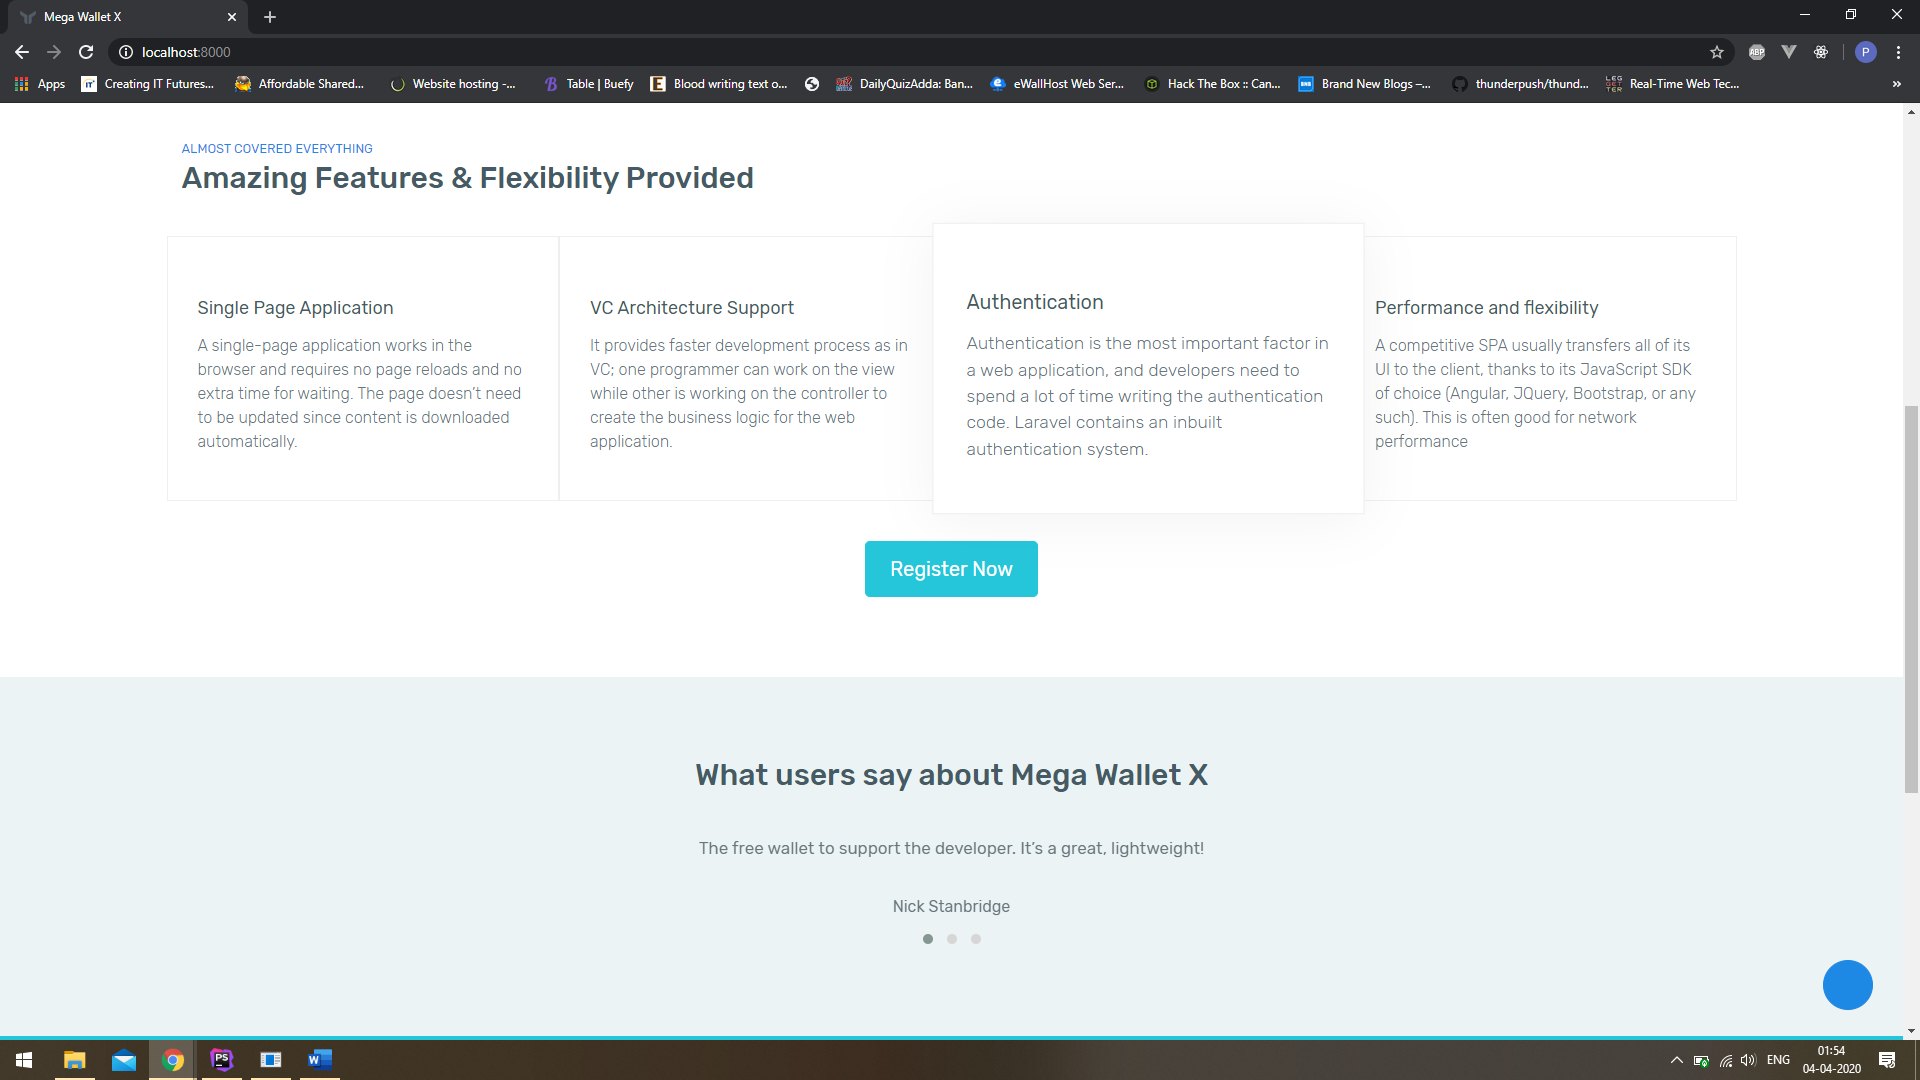
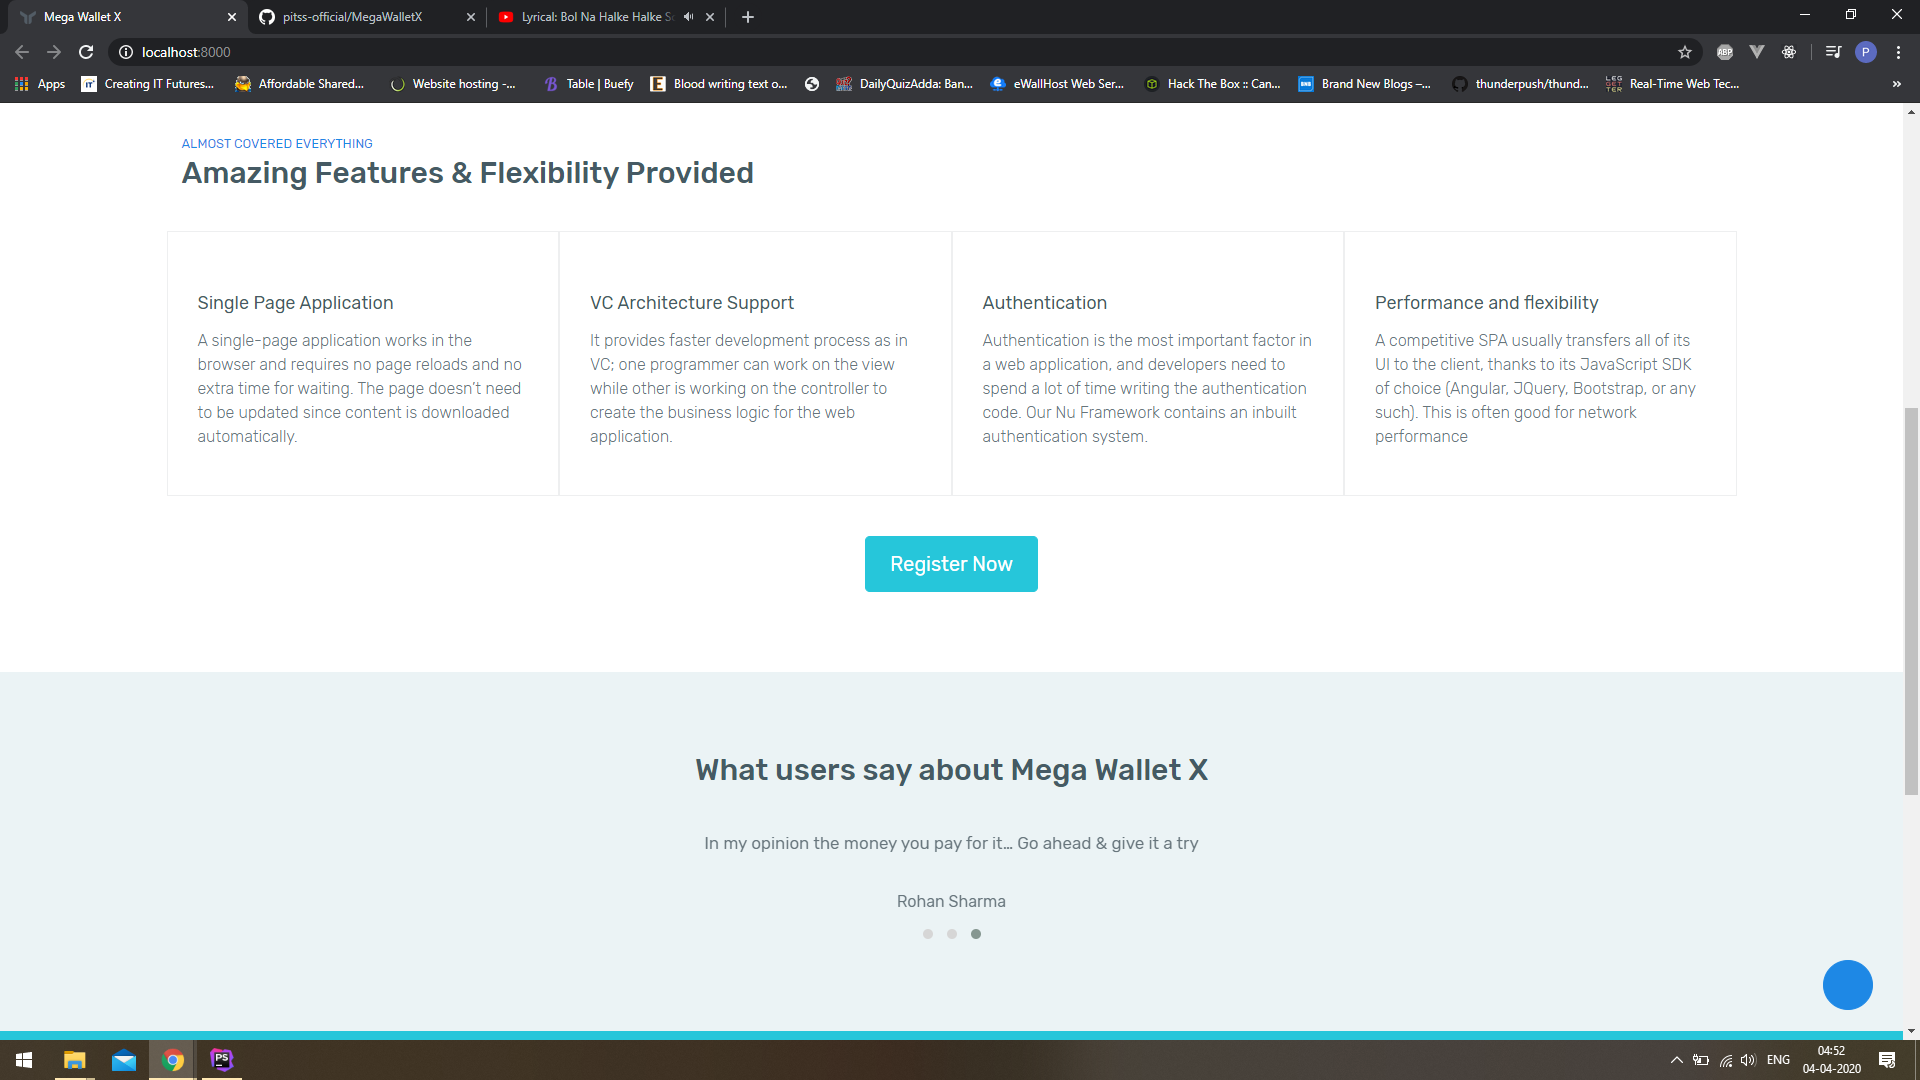
initial commit

diff --git a/application/views/home.view.php b/application/views/home.view.php
@@ -43,7 +43,7 @@ use Middleware\Auth; ?>
             <div class="fix-width">
                 <div class="row banner-text">
                     <div class="col-lg-5 m-t-20">
-                        <h1>The Most Beautiful &amp; Powerful <span class="text-info">Wallet Application</span> based on Laravel and Vue.js</h1>
+                        <h1>The Most Beautiful &amp; Powerful <span class="text-info">Wallet Application</span><br> based on Our PHP7 based <b>Nu Framework</b> and React.js</h1>
                         <p class="subtext"><span class="font-medium">Payments</span> has now become easier with <span class="font-medium">Mega Wallet </span> based on<span class="font-medium">PHP7 and React.js</span> which is a <span class="font-medium">Single Page Application.</span> It is fully responsive admin dashboard template built with Bootstrap Framework, HTML5 & CSS3, Media query. </p>
                         <div class="down-btn"> <a href="#" class="btn btn-info m-b-10">PHP7 Nu Framework by Pawan and Anukriti</a> <a href="#" class="btn btn-success m-b-10">React.JS</a> </div>
                     </div>
@@ -69,7 +69,7 @@ use Middleware\Auth; ?>
                             </div>
                             <div class="col-lg-3 col-md-6">
                                 <h4 class="font-500">Authentication</h4>
-                                <p>Authentication is the most important factor in a web application, and developers need to spend a lot of time writing the authentication code. Laravel contains an inbuilt authentication system.</p>
+                                <p>Authentication is the most important factor in a web application, and developers need to spend a lot of time writing the authentication code. Our Nu Framework contains an inbuilt authentication system.</p>
                             </div>
                             <div class="col-lg-3 col-md-6">
                                 <h4 class="font-500">Performance and flexibility</h4>
